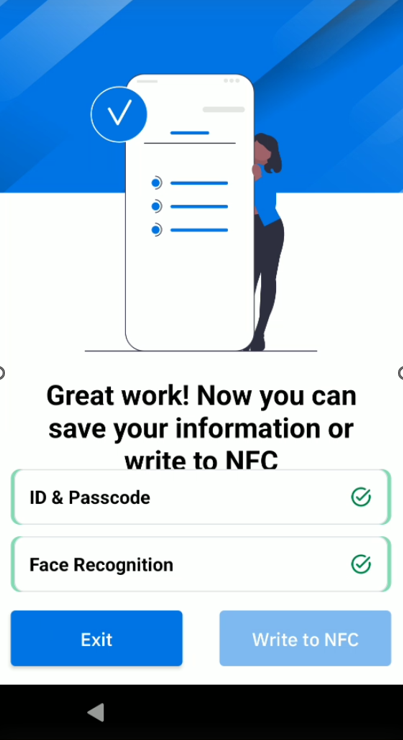
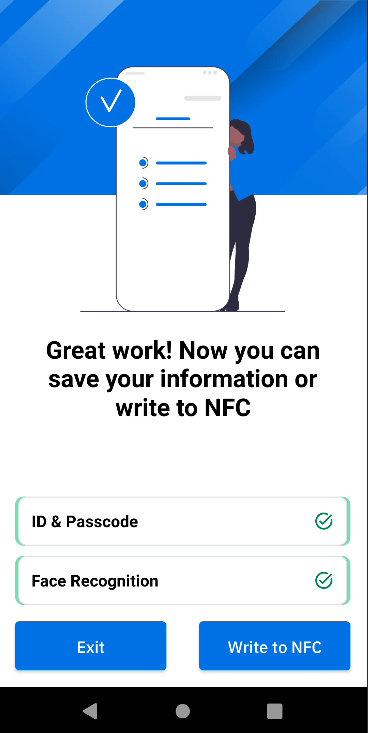
[DLM-64500] IG 2.3 - NFC Cards

diff --git a/identityguardian/2-3/usage/index.html b/identityguardian/2-3/usage/index.html
@@ -250,11 +250,17 @@
 
 <p>Administrators <a href="../setup/#configuration">configure</a> Identity Guardian and set up profiles for <a href="../setup/#shareddevice">shared</a> or <a href="../setup/#personallyassigneddevice">personally assigned</a> devices through <a href="../mc">Managed Configurations</a>.</p>
 
-<p>Each user must complete a one-time <a href="#userenrollment">enrollment</a> before <a href="#signinauthentication">authenticating and signing in</a>. For those opting for facial biometrics, customizable Terms and Conditions must be accepted. Once enrolled, users can sign in and out of the device as needed.</p>
+<p>Each user is required to complete a one-time <a href="#userenrollment">enrollment</a> process before <a href="#signinauthentication">authentication and sign in</a>. For users opting to use facial biometrics (if configured by the administrator), customizable Terms and Conditions must be reviewed and accepted. Once enrollment is complete, users can sign in and out of the device as needed.</p>
 
-<p>Streamline the enrollment workflow with the <a href="#printsharebarcode">zCreator</a> app, a companion to Identity Guardian. It enables direct printing, previewing, and resizing of barcodes, supporting both Zebra and Canon printers, along with seamless barcode sharing.</p>
+<p>The enrollment workflow can be further streamlined using the Identity Guardian <strong>zCreator</strong> companion app, offering:</p>
 
-<p>This section also discusses features available to streamline the authentication process.</p>
+<ul>
+<li><strong><a href="#printsharebarcode">Barcode printing and sharing</a>:</strong> Effortlessly print, preview, and resize barcodes. This is seamlessly integrated with the enrollment process, supporting both Zebra and Canon printers, and also allows barcodes to be shared.</li>
+
+<li><strong><a href="#nfccard">NFC card writing</a>:</strong> Write user data to NFC cards when NFC data is saved during enrollment.</li>
+</ul>
+
+<p>This section also discusses additionl features available to streamline the authentication process.</p>
 
 <!--
 
@@ -323,7 +329,7 @@ Other features:
 <li>Re-enter the passcode
 <img alt="image" style="height:400px" src="setup-shared.png"></li></ul></li>
 
-<li><p>(Optional) Capture facial biometrics. <em>If opting out, tap <strong>Skip</strong> and skip to step 7 below.</em> Otherwise, tap <strong>Add</strong> and continue with the subsequent steps.
+<li><p>(Optional) Capture facial biometrics. <em>If opting out (as determined by the administrator's configuration), tap <strong>Skip</strong> and proceed to step 7 below.</em> Otherwise, tap <strong>Add</strong> and follow the subsequent steps.
 <img alt="image" style="height:400px" src="face-capture.png"></p></li>
 
 <li><p>Read the Terms &amp; Conditions. Tap <strong>Confirm</strong> to accept.
@@ -335,21 +341,29 @@ Other features:
 <li><p>Choose <em>one</em> of the following steps based on your administrator's data storage configuration:</p>
 
 <ul>
-<li><strong>Write to NFC:</strong> To write the data to an NFC card, tap <strong>Write to NFC.</strong> When prompted to write to the NFC card through zCreator, touch the NFC card to the device until the write is complete. Once the write is complete and Identity Guardian is displayed, tap <strong>Continue</strong> to finish the enrollment process. <strong>Do <em>not</em> proceed to the next step. For NFC, the process is complete at this stage.</strong>
-<table>
-    <tbody><tr>
-        <td><img alt="image" style="height:400px" src="nfc-write-or-save.png"></td>
-        <td>&nbsp;&nbsp;&nbsp;&nbsp;&nbsp;</td>
-        <td><img alt="image" style="height:400px" src="nfc-write.png"></td>
-        <td>&nbsp;&nbsp;&nbsp;&nbsp;&nbsp;</td>
-        <td><img alt="image" style="height:400px" src="nfc-write-completed.png"></td>
-        <td>&nbsp;&nbsp;&nbsp;&nbsp;&nbsp;</td>
-        <td><img alt="image" style="height:400px" src="self-enroll-complete.jpg"></td>
-    </tr>
-</tbody></table></li>
+<li><strong>NFC:</strong> Select one of the following:
 
-<li><strong>Generate Barcode:</strong> The user barcode is generated. Tap <strong>Next,</strong> then proceed to step 8.
-<img alt="image" style="height:400px" src="barcode.png"></li></ul></li>
+
+<ul>
+<li><strong>Save:</strong> Saves the NFC data to the device for 24 hours. Within this timefraame, the user must use <a href="#nfccard">zCreator</a> to write their data to an NFC card. <u>Do <em>not</em> proceed to the next step. For NFC, the process is complete at this stage.</u> </li>
+
+<li><strong>Write to NFC:</strong> To write the data to an NFC card, tap <strong>Write to NFC.</strong> When prompted to write to the NFC card through zCreator, touch the NFC card to the device until the write is complete. Once the write is complete and Identity Guardian is displayed, tap <strong>Continue</strong> to finish the enrollment process. <u>Do <em>not</em> proceed to the next step. For NFC, the process is complete at this stage.</u> <br><i class="fa fa-exclamation-triangle" style="color:#FFA500;"></i> <strong>Note:</strong> This option <strong>does <u>not</u> save</strong> the NFC data to the device.
+<table>
+<tbody><tr>
+    <td><img alt="image" style="height:400px" src="nfc-write-or-save.png"></td>
+    <td>&nbsp;&nbsp;&nbsp;&nbsp;&nbsp;</td>
+    <td><img alt="image" style="height:400px" src="nfc-write.png"></td>
+    <td>&nbsp;&nbsp;&nbsp;&nbsp;&nbsp;</td>
+    <td><img alt="image" style="height:400px" src="nfc-write-completed.png"></td>
+    <td>&nbsp;&nbsp;&nbsp;&nbsp;&nbsp;</td>
+    <td><img alt="image" style="height:400px" src="self-enroll-complete.jpg"></td>
+</tr>
+</tbody></table></li></ul>
+
+<p></p></li><p></p>
+
+<p></p><li><strong>Barcode:</strong> The user barcode is generated. Tap <strong>Next,</strong> then proceed to step 8.
+<img alt="image" style="height:400px" src="barcode.png"></li><p></p></ul><p></p></li>
 
 <li><p>To complete the enrollment process for barcodes, follow <em>one</em> of the options below based on the configurations set by your administrator:</p>
 
@@ -370,9 +384,10 @@ Other features:
 
 <ul>
 <li><p><strong>Printing or Sharing Barcode:</strong> Tap <strong>Print</strong> to launch the zCreator app, where the barcode displays on the preview screen. For detailed instructions on printing or sharing, see <a href="#printsharebarcode">Print &amp; Share Barcode</a>. After printing or sharing, tap the back button in zCreator to return to Identity Guardian, then tap <strong>Continue</strong> to complete enrollment. <br>
-<i class="fa fa-exclamation-triangle" style="color:#FFA500;"></i> <strong>Notes:</strong> </p></li>
+<i class="fa fa-exclamation-triangle" style="color:#FFA500;"></i> <strong>Notes:</strong> </p>
 
-<li><p>This option <strong>does <u>not</u> save</strong> the barcode. </p></li>
+<ul>
+<li><p>This option <strong>does <u>not</u> save</strong> the barcode to the device. </p></li>
 
 <li><p>If the user taps the back button in zCreator without printing the barcode, the Identity Guardian screen returns with the <strong>Continue</strong> button visible. However, the user loses the opportunity to print their barcode, and the previous enrollment steps cannot be revisited.</p>
 
@@ -384,7 +399,7 @@ Other features:
         <td>&nbsp;&nbsp;&nbsp;&nbsp;&nbsp;</td>
         <td><img alt="image" style="height:400px" src="congrats-shared.png"></td>
     </tr>
-</tbody></table></li>
+</tbody></table></li></ul></li>
 
 <li><p><strong>Saving the Barcode:</strong> Tap <strong>Save</strong> to save the barcode as a PDF file. It is stored in the <code>/enterprise/usr/profiles</code> folder on the device and can be accessed later via <a href="#afterenrollment">zCreator</a>.
 </p><table>
@@ -423,21 +438,21 @@ Other features:
 
 <li><p>Provide the requested information for enrollment, then tap <strong>Next</strong>:</p>
 
-<p></p><ul>
-<li><strong>Employee ID or Email -</strong> This is populated based on the user ID entered in the SSO login screen. Maximum of 60 characters.</li></ul><p></p>
+<ul>
+<li><strong>Employee ID or Email -</strong> This is populated based on the user ID entered in the SSO login screen. Maximum of 60 characters.</li>
 
-<p></p></li><li><strong>Role -</strong> This is populated based on the user ID entered and their role mapped in their SSO provider.</li><p></p>
+<li><strong>Role -</strong> This is populated based on the user ID entered and their role mapped in their SSO provider.</li>
 
-<p></p><li><strong>Create Passcode -</strong> Enter a passcode to create.</li><p></p>
+<li><strong>Create Passcode -</strong> Enter a passcode to create.</li>
 
-<p></p><li><strong>Re-enter Passcode -</strong> Enter the same passcode again.
+<li><strong>Re-enter Passcode -</strong> Enter the same passcode again.
 <table>
    <tbody><tr>
        <td><img alt="image" style="height:400px" src="self-enroll.jpg"></td>
        <td>&nbsp;&nbsp;&nbsp;&nbsp;&nbsp;</td>
        <td><img alt="image" style="height:400px" src="self-enroll-2.jpg"></td>
    </tr>
-</tbody></table></li><p></p>
+</tbody></table></li></ul></li>
 
 <li><p>Tap <strong>Add.</strong>
 <img alt="image" style="height:400px" src="self-enroll-3.jpg"></p></li>
@@ -448,7 +463,13 @@ Other features:
 <li><p>Choose <em>one</em> of the following steps based on your administrator's data storage configuration:</p>
 
 <ul>
-<li><strong>Write to NFC:</strong> To write the data to an NFC card, tap <strong>Write to NFC.</strong> When prompted to write to the NFC card through zCreator, touch the NFC card to the device until the write is complete. Once the write is complete and Identity Guardian is displayed, tap <strong>Continue</strong> to finish the enrollment process. <strong>Do <em>not</em> proceed to the next step. For NFC, the process is complete at this stage.</strong> <br><i class="fa fa-exclamation-triangle" style="color:#FFA500;"></i> <strong>Note:</strong> This option <strong>does <u>not</u> save</strong> the NFC data to the device.
+<li><strong>NFC:</strong> Tap one of the following buttons:
+
+
+<ul>
+<li><strong>Exit:</strong> Exits the enrollment process.</li>
+
+<li><strong>Write to NFC -</strong> Writes the data to an NFC card. When zCreator launches, it prompts the user to touch the NFC card to the device until the write is complete. Once the write is complete and Identity Guardian is displayed, tap <strong>Continue</strong> to finish the enrollment process. <u>Do <em>not</em> proceed to the next step. For NFC, the process is complete at this stage.</u> <br><i class="fa fa-exclamation-triangle" style="color:#FFA500;"></i> <strong>Note:</strong> This option <strong>does <u>not</u> save</strong> the NFC data to the device.
 <table>
     <tbody><tr>
         <td><img alt="image" style="height:400px" src="nfc-write-exit.png"></td>
@@ -459,10 +480,12 @@ Other features:
         <td>&nbsp;&nbsp;&nbsp;&nbsp;&nbsp;</td>
         <td><img alt="image" style="height:400px" src="self-enroll-complete.jpg"></td>
     </tr>
-</tbody></table></li>
+</tbody></table></li></ul>
 
-<li><strong>Generate Barcode:</strong> The user barcode is generated. Tap <strong>Next,</strong> then proceed to step 7. 
-<img alt="image" style="height:400px" src="self-enroll-barcode.jpg"></li></ul></li>
+<p></p></li><p></p>
+
+<p></p><li><strong>Barcode:</strong> The user barcode is generated. Tap <strong>Next,</strong> then proceed to step 7. 
+<img alt="image" style="height:400px" src="self-enroll-barcode.jpg"></li><p></p></ul><p></p></li>
 
 <li><p><strong>Print or Share Barcode:</strong> Tap <strong>Print.</strong> This opens zCreator app in the preview screen to allow for immediate printing or sharing of the barcode. Proceed to the <a href="#printsharebarcode">Print &amp; Share Barcode</a> section for the available options. <br><i class="fa fa-exclamation-triangle" style="color:#FFA500;"></i> <strong>Note:</strong> The barcode is <strong><u>not</u> automatically saved.</strong> To save it manually, see <a href="#printsharebarcode">Print &amp; Share Barcode</a>.
 <img alt="image" style="height:400px" src="self-enrollment.png"></p></li>
@@ -512,7 +535,7 @@ Other features:
 <img alt="image" style="height:400px" src="setup-personal.png"></li></ul>
 </li>
 
-<li>(Optional) Capture facial biometrics. <em>If opting out, tap <strong>Skip</strong> and skip to step 7 below.</em> Otherwise, tap <strong>Add</strong> and continue with the subsequent steps.
+<li>(Optional) Capture facial biometrics. <em>If opting out (as determined by the administrator's configuration), tap <strong>Skip</strong> and proceed to step 7 below.</em> Otherwise, tap <strong>Add</strong> and follow the subsequent steps.
 <img alt="image" style="height:400px" src="face-capture.png"></li>
 
 <li>Read the Terms &amp; Conditions. Tap <strong>Confirm</strong> to accept.
@@ -838,11 +861,19 @@ Even if certain settings, like access to printer configurations, are disabled by
 
 <h2 id="nfccard" class="anchor"><a class="heading-anchor" href="#nfccard"><span></span></a>NFC Card</h2>
 
-<p>NFC card-based enrollment and authentication enable users to effortlessly generate and read their Identity Guardian user profile directly on NFC cards for use with <a href="../setup/#shareddevice">Shared Devices</a>. During the enrollment process (either through <a href="#standardenrollment">Standard</a> or <a href="#selfenrollment">Self-Enrollment</a>), user data is written to and stored on the NFC card. This allows users to authenticate simply by tapping their NFC card on the device. Additionally, users can unlock their device with a single tap of their NFC card. </p>
+<p>With <strong>NFC cards,</strong> users can seamlessly write and access their Identity Guardian user profiles on <em>Shared Devices</em>, allowing the NFC card to be used as part of the authentication process. </p>
 
-<p>For successful authentication, the NFC card must be placed within 4 cm of the device and held steady for approximately 4 to 5 seconds complete the process.</p>
+<p>During the <a href="#shareddevice">enrollment</a> process, the Identity Guardian <strong>zCreator</strong> companion app prompts users to write their profile data to the NFC card. Once the data is written successfully, the NFC card can be used for authentication. </p>
 
-<p>User data is written to the NFC card using zCreator, which is automatically launched during the enrollment process. After completing Standard Enrollment, user data is saved in zCreator, allowing it to be written to additional NFC cards as needed.</p>
+<p>To ensure successful authentication, the NFC card must comply with the <a href="#nfccardspecifications">NFC Card Specifications</a>, be placed within 4 cm of the device, and held steady for approximately 4 to 5 seconds to complete the process.</p>
+
+<h4 id="datastoragefromstandardenrollment" class="anchor"><a class="heading-anchor" href="#datastoragefromstandardenrollment"><span></span></a>Data Storage from Standard Enrollment</h4>
+
+<p>When NFC data is saved during the <a href="#standardenrollment">Standard Enrollment</a> process on a <em>Shared Device,</em> the data is temporarily stored in the Identity Guardian <strong>zCreator</strong> companion app, which must be installed on the device. After enrollment, open the app to access the saved user data and write it to an NFC card <em>within 24 hours. The NFC file is automatically deleted after this timeframe.</em> The data is securely stored and accessible only to Identity Guardian, allowing users to authenticate effortlessly by tapping their NFC card on the device. Additionally, users can unlock their device with just a single tap of their NFC card. </p>
+
+<h4 id="installingzcreator" class="anchor"><a class="heading-anchor" href="#installingzcreator"><span></span></a>Installing zCreator</h4>
+
+<p>Administrators must install the <strong>zCreator app</strong> on the devices. For guidance, see the <a href="../setup/#standardenrollment">Standard Enrollment</a> or <a href="../setup/#selfenrollment">Self-Enrollment</a> setup procedures.</p>
 
 <hr>
 
@@ -882,7 +913,7 @@ Even if certain settings, like access to printer configurations, are disabled by
 
 <h3 id="adminsetup" class="anchor"><a class="heading-anchor" href="#adminsetup"><span></span></a>Admin Setup</h3>
 
-<p>Configure <a href="../mc">Managed Configurations</a>:</p>
+<p>Configure the following <a href="../mc">Managed Configurations</a>:</p>
 
 <ol>
 <li><strong>Enrollment Configuration:</strong>
@@ -902,20 +933,20 @@ Even if certain settings, like access to printer configurations, are disabled by
 
 <hr>
 
-<h3 id="stepstowritetoannfccard" class="anchor"><a class="heading-anchor" href="#stepstowritetoannfccard"><span></span></a>Steps to Write to an NFC Card</h3>
+<h3 id="writetonfccard" class="anchor"><a class="heading-anchor" href="#writetonfccard"><span></span></a>Write to NFC Card</h3>
 
-<p>After <a href="#standardenrollment">Standard Enrollment</a>, the NFC data is stored in zCreator. This data can be written to additional NFC cards.</p>
+<p>If NFC data is saved during <a href="#standardenrollment">Standard Enrollment</a>, it is temporarily stored in zCreator and must be written to an NFC card within the 24-hour storage period.</p>
 
-<p><strong>To write to an NFC card after Standard Enrollment:</strong></p>
+<p><strong>To write to an NFC card:</strong></p>
 
 <ol>
 <li>Open zCreator. </li>
 
-<li>Tap to open the relevant NFC file containing the user data.</li>
+<li>Tap to open the relevant NFC file that contains the user data.</li>
 
-<li>Tap and hold the NFC card against the device while the data is being written.</li>
+<li>Tap and hold the NFC card against the device to write the data. Continue to hold the card in place until the writing process is complete.</li>
 
-<li>Wait until a success message appears, confirming that the data has been written successfully.</li>
+<li>When successful, a confirmation message appears indicating that the data has been written successfully.</li>
 </ol>
 
 <table>
@@ -925,6 +956,9 @@ Even if certain settings, like access to printer configurations, are disabled by
         <td><img alt="image" style="height:400px" src="nfc-write.png"></td>
         <td>&nbsp;&nbsp;&nbsp;&nbsp;&nbsp;</td>
         <td><img alt="image" style="height:400px" src="nfc-write-completed.png"></td>
+    </tr>
+    <tr>
+        <td><i>Writing to an NFC card</i></td>
     </tr>
 </tbody></table>
 
@@ -969,8 +1003,7 @@ Even if certain settings, like access to printer configurations, are disabled by
 <p><strong>If Microsoft Authenticator app is in use,</strong> perform the following after the user unlocks the screen:</p>
 
 <ol>
-<li>The Microsoft Authenticator app is launched prompting for user authentication. Enter the login credentials:</li>
-</ol>
+<li><p>The Microsoft Authenticator app is launched prompting for user authentication. Enter the login credentials:</p>
 
 <table>
     <tbody><tr>
@@ -978,12 +1011,11 @@ Even if certain settings, like access to printer configurations, are disabled by
         <td>&nbsp;&nbsp;&nbsp;&nbsp;&nbsp;</td>
         <td><img alt="image" style="height:400px" src="authenticator-app-passwd.png"></td>
     </tr>
-</tbody></table>
+</tbody></table></li>
 
-<ol>
-<li>After authentication is successful, the user gains access to the device.</li>
+<li><p>After authentication is successful, the user gains access to the device.</p></li>
 
-<li>When a user launches any app that utilizes Microsoft Authenticator app as broker, the app automatically signs in without prompting for user name or password.</li>
+<li><p>When a user launches any app that utilizes Microsoft Authenticator app as broker, the app automatically signs in without prompting for user name or password.</p></li>
 </ol>
 
 <hr>

diff --git a/identityguardian/2-3/setup/index.html b/identityguardian/2-3/setup/index.html
@@ -263,18 +263,21 @@
 
 
 <ul>
-<li>Personal data is encrypted and securely stored within a <strong>barcode</strong> generated during enrollment using facial recognition or a passcode. It serves as an authentication method for signing into the device</li>
+<li><strong>Personal data is encrypted and can be securely stored within a barcode or NFC card,</strong> both of which serve as authentication methods for signing into the device. The encrypted data can include facial recognition or a passcode.
 
-<li>Barcodes can be printed or shared using the <strong><a href="#printsharebarcode">zCreator app</a>,</strong> which includes features such as barcode preview, resizing, printing, and sharing.</li>
 
-<li>Users can delete their barcode at any time to erase their personal data.</li></ul>
+<ul>
+<li><strong><a href="../usage/#nfccard">NFC Cards</a>:</strong> User data can be stored using the Identity Guardian <strong>zCreator</strong> companion app.</li>
+
+<li><strong><a href="#printsharebarcode">Barcodes</a>:</strong> Barcodes can be printed or shared using the <strong>zCreator app,</strong> which includes features such as barcode preview, resizing, printing, and sharing. Users can delete their barcode at any time to erase their personal data.</li></ul>
+</li></ul>
 </li>
 
 <li><strong><a href="#personallyassigneddevice">Personally Assigned Device</a> -</strong> Designed for single-user devices.
 
 
 <ul>
-<li>Personal data is securely embedded within the Android framework, ensuring privacy and preventing organizational access.</li></ul>
+<li><strong>Personal data is securely embedded within the Android framework,</strong> ensuring privacy and preventing organizational access.</li></ul>
 </li>
 </ul>
 
@@ -373,11 +376,13 @@
 <ul>
 <li><p>For Android, such as from another app, use this command:</p>
 
-<p>adb shell am start -n com.zebra.mdna.els/com.zebra.mdna.els.userEnrollment.activity.EnrollmentActivity</p></li>
+<pre class="prettyprint"><code>adb shell am start -n com.zebra.mdna.els/com.zebra.mdna.els.userEnrollment.activity.EnrollmentActivity
+</code></pre></li>
 
 <li><p>For an EMM, such as VMware Workspace ONE UEM (AirWatch), use this command to launch via intent:</p>
 
-<p>mode=explicit,broadcast=false,action=android.intent.action.MAIN,package=com.zebra.mdna.els,class=com.zebra.mdna.els.userEnrollment.activity.EnrollmentActivity</p></li></ul></li>
+<pre class="prettyprint"><code>mode=explicit,broadcast=false,action=android.intent.action.MAIN,package=com.zebra.mdna.els,class=com.zebra.mdna.els.userEnrollment.activity.EnrollmentActivity
+</code></pre></li></ul></li>
 
 <li><p>If barcode printing or sharing is needed on <a href="#shareddevice">Shared Devices</a>, add the <strong>zCreator APK</strong> to the EMM.</p>
 
@@ -651,25 +656,28 @@
 <p>Administrators can configure enrollment settings through <a href="../mc/#enrollmentconfiguration">Managed Configurations</a>, including:</p>
 
 <ul>
-<li>Specifying the number of facial images required facial biometrics enrollment.</li>
+<li>Specifying the required number of facial images for facial biometrics enrollment (if enabled by the administrator).</li>
 
-<li>Selecting barcode or NFC card storage for user data during enrollment. For NFC cards, users can authenticate without requiring additional factors, such as facial scans or passcodes.</li>
-
-<li>Enabling or disabling automatic NFC unlock.</li>
+<li>Choosing barcode or NFC card for user data storage during enrollment. With NFC cards, users can authenticate without requiring additional factors, such as facial scans or passcodes and unlock the device with the simple tap of their NFC card. For more information, see <a href="../usage/#nfccard">NFC Card</a>.</li>
 
 <li>Setting up the terms and conditions of use.</li>
 </ul>
 
-<p>For more information on NFC Cards, see <a href="../usage/#nfccard">NFC Card</a>.</p>
-
 <h4 id="enrollmentmethods" class="anchor"><a class="heading-anchor" href="#enrollmentmethods"><span></span></a>Enrollment Methods</h4>
 
-<p>Identity Guardian supports two distinct enrollment methods for shared devices:</p>
+<p>Identity Guardian offers two distinct enrollment methods for <em>shared devices:</em></p>
 
 <ul>
-<li><strong><a href="#standardenrollment">Standard Enrollment</a> -</strong> <em>This method separates the enrollment and authentication processes across two different devices.</em> Users <strong>enroll on a dedicated device</strong> configured with an Enrollment profile deployed by their administrator. Once enrollment is complete, <strong>authentication is performed on a separate shared device</strong> equipped with the Authentication profile, also deployed by the administrator. Authentication methods such as Single Sign-On (SSO) or user barcodes can be employed. This approach is ideal for scenarios where enrollment is centrally managed, and authentication is distributed.</li>
+<li><strong><a href="#standardenrollment">Standard Enrollment</a> -</strong> <em>This method separates the enrollment and authentication processes across two different devices.</em> It is ideal for scenarios where enrollment is centrally managed, while authentication is distributed.
 
-<li><strong><a href="#selfenrollment">Self-Enrollment</a> -</strong> <em>This method consolidates both enrollment and authentication on the same shared device.</em> The shared device is configured with a unified Authentication profile that includes the enrollment settings as specified by the administrator. Users complete enrollment and authenticate directly on the same device. This streamlined approach is better suited for environments where users independently manage their enrollment and authentication on shared devices.</li>
+
+<ul>
+<li>Users <strong>enroll on a dedicated device</strong> configured with an Enrollment profile deployed by their administrator. </li>
+
+<li>After completing enrollment, <strong>authentication is performed on a separate shared device</strong> configured with the Authentication profile, also deployed by the administrator. Authentication methods such as Single Sign-On (SSO) or user barcodes can be used. </li></ul>
+</li>
+
+<li><strong><a href="#selfenrollment">Self-Enrollment</a> -</strong> <em>This method combines both enrollment and authentication on the same shared device.</em> The device is configured with a unified Authentication profile that incorporates enrollment settings defined by the administrator. Users can complete enrollment and authenticate directly on the same shared device. This streamlined approach is best suited for environments where users independently manage their enrollment and authentication on shared devices.</li>
 </ul>
 
 <p><strong>Secure Encryption During Enrollment:</strong></p>
@@ -683,12 +691,19 @@
 
 
 <ul>
-<li><strong>Standard Enrollment -</strong> The barcode is automatically saved in the <code>/enterprise/usr/Profiles</code> folder when the user taps on the <strong>Save</strong> button during enrollment. <em><strong>The barcode must be printed or shared within 24 hours,</strong></em> as it will be automatically deleted afterward to prevent rentention of personal information on the device or in the cloud. </li>
+<li><strong>Standard Enrollment -</strong> Users can either immediately print the barcode or save it. When the user saves the barcode, it is saved in the <code>/enterprise/usr/Profiles</code> folder. After saving, <em><strong>the barcode must be printed or shared within 24 hours,</strong></em> as it will be automatically deleted afterward to prevent retention of personal information on the device or in the cloud. </li>
 
 <li><strong>Self-Enrollment -</strong> The user must manually save or print the barcode. </li></ul>
 </li>
 
-<li><strong>NFC Enrollment:</strong> This method enables NFC card-based enrollment and authentication. Users can store face vectors and passcodes on NFC cards and authenticate using a combination of NFC cards with face scanning or a passcode. If enabled by the administrator, users can simply tap their NFC card after pressing the power button to unlock the device.</li>
+<li><strong>NFC Enrollment:</strong> This method enables NFC card-based enrollment and authentication. Users can store face vectors and passcodes on NFC cards during enrollment and authenticate using a combination of NFC cards with face scanning or a passcode. Users can simply tap their NFC card after pressing the power button to unlock the device.
+
+
+<ul>
+<li><strong>Standard Enrollment -</strong> Users can either immediately write to the NFC card or save the NFC data. When the user saves the NFC data, it is accessible through zCreator within 24 hours. Users should use zCreator to write to their NFC card within this time frame, after which it will be automatically deleted to prevent retention of personal information on the device or in the cloud. </li>
+
+<li><strong>Self-Enrollment -</strong> The user must manually save or print the barcode. </li></ul>
+</li>
 </ul>
 
 <h4 id="authenticationprocess" class="anchor"><a class="heading-anchor" href="#authenticationprocess"><span></span></a>Authentication Process</h4>
@@ -753,7 +768,7 @@
 <ul>
 <li><strong>Enrollment Key:</strong> [Enter the enrollment key to encrypt user data.]</li>
 
-<li><strong>Number of facial images to be enrolled:</strong> [For barcode printing, enter the value <strong>1</strong>, as this is the only valid value for this scenario. For other use cases, enter the appropriate value.]</li>
+<li><strong>Number of facial images to be enrolled:</strong> [This applies only if facial authentication is required (<strong>Allow facial opt-out</strong> is set to <strong>false</strong>). For barcode printing, enter <strong>1</strong>, as it is the only valid value for this scenario. For other use cases, enter the appropriate value based on your requirements.]</li>
 
 <li><strong>Allow opening barcode during enrollment:</strong> [Enable this option to allow barcode printing during the enrollment process. This displays the <strong>Print</strong> button at the last step of enrollment.]</li>
 
@@ -894,7 +909,7 @@ To accomplish this, follow these steps (refer to [EMM Setup](../setup/#emm)):
 
 
 <ul>
-<li><strong>Number of facial images to be enrolled:</strong> [For barcode printing, enter the value <strong>1</strong>, as this is the only valid value for this scenario. For other use cases, enter the appropriate value.]</li>
+<li><strong>Number of facial images to be enrolled:</strong> [This applies only if facial authentication is required (<strong>Allow facial opt-out</strong> is set to <strong>false</strong>). For barcode printing, enter <strong>1</strong>, as it is the only valid value for this scenario. For other use cases, enter the appropriate value based on your requirements.]</li>
 
 <li><strong>Enrollment Storage Method:</strong> [Select <strong>NFC</strong> or <strong>Barcode</strong>]</li></ul>
 </li>

diff --git a/identityguardian/2-3/about/index.html b/identityguardian/2-3/about/index.html
@@ -310,7 +310,7 @@ Using [managed configurations](../mc/) through Zebra’s DNA Cloud platform or E
 <h2 id="newin23" class="anchor"><a class="heading-anchor" href="#newin23"><span></span></a>New in 2.3</h2>
 
 <ul>
-<li><strong>Introducing NFC Card-Based Enrollment and Authentication,</strong> enabling end users to seamlessly generate and read their Identity Guardian user profile directly to and from NFC cards using Zebra mobile devices. </li>
+<li><strong>Introducing <a href="../usage/#nfccard">NFC Card Enrollment and Authentication</a>,</strong> enabling end users to effortlessly create and access their Identity Guardian user profiles directly on NFC cards using Zebra mobile devices. </li>
 
 <li><strong>Resolved Issues:</strong> The intermittent issue with "Please wait" encountered during SSO Login has been fixed, ensuring a seamless login experience for users.</li>
 </ul>

diff --git a/identityguardian/2-3/mc/index.html b/identityguardian/2-3/mc/index.html
@@ -406,7 +406,7 @@ For <strong><em>personally assigned devices,</em></strong> the "PERSONALLY_ASSIG
 </tr>
 
 <tr>
-<td>User Enrollment Configuration</td>
+<td>Enrollment Storage Method</td>
 <td>enrollmentStorageMethod</td>
 <td>BARCODE (default)<br>NFC</td>
 <td>BARCODE (default)<br>NFC</td>
